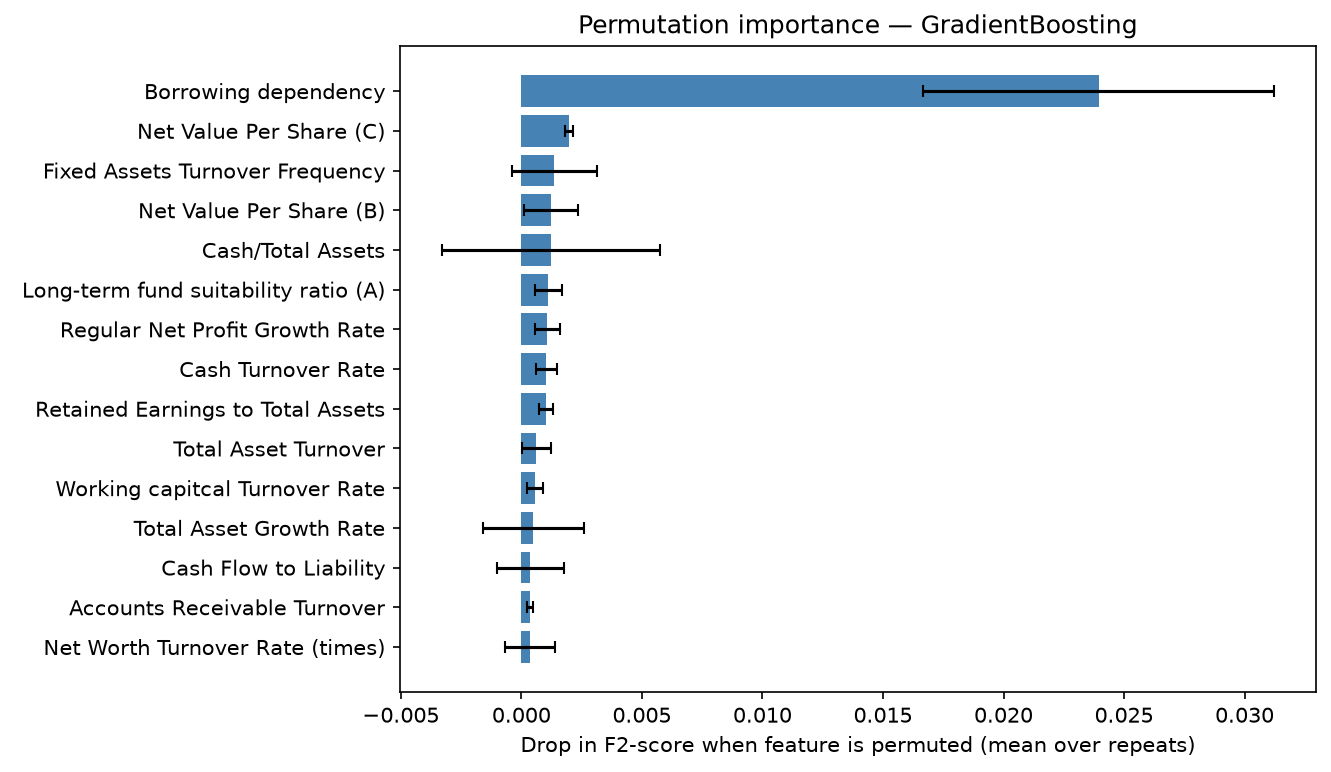
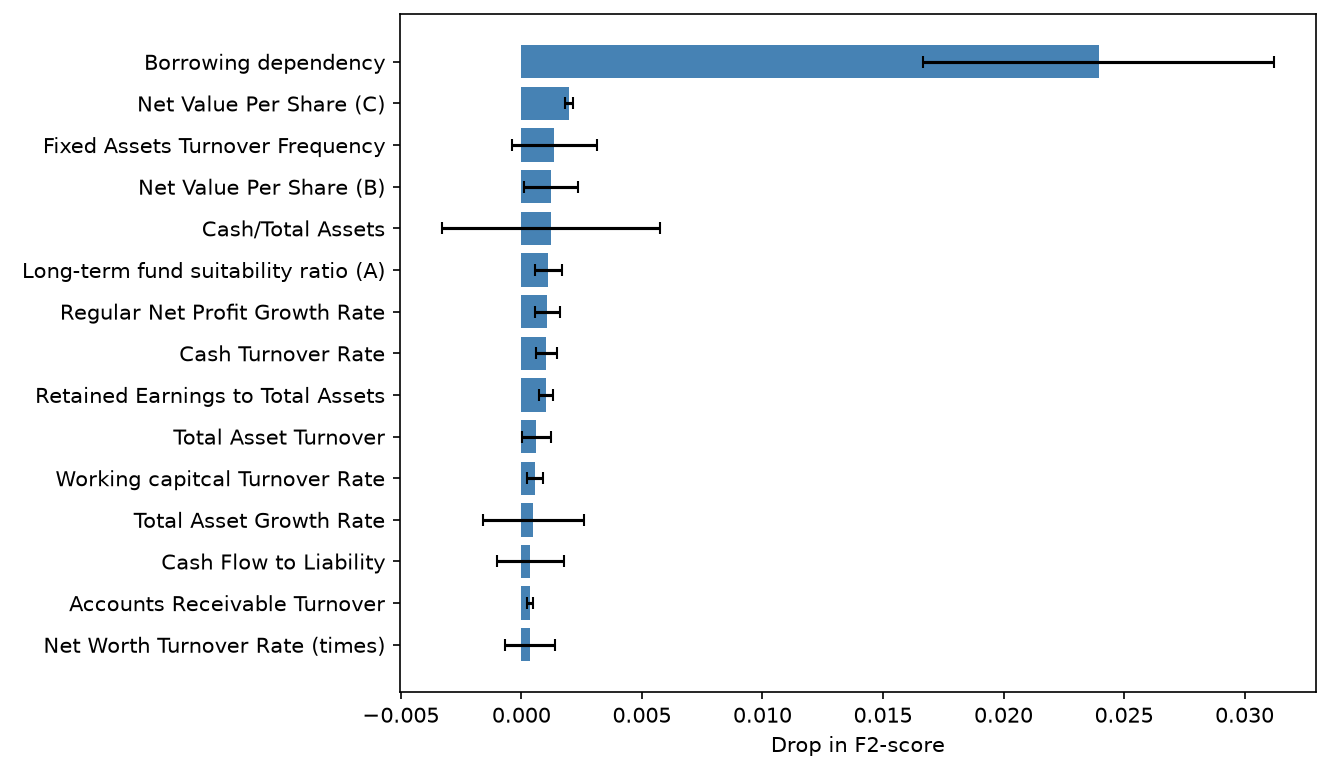
Update conclusion and appendix sections for clarity; rename section and adjust figure/table numbering for consistency.

diff --git a/chapters/99_Appendix.tex b/chapters/99_Appendix.tex
@@ -40,7 +40,7 @@ Section~\ref{sec:res-performance}.
   \floatfoot{Source: own.}
 \end{table}
 
-\section{Native Importance Rankings}
+\section{Native Importance Results}
 \label{sec:app-native}
 
 Tables~\ref{tab:native-lr} to~\ref{tab:native-gb} list the top $15$ features by

diff --git a/chapters/08_Conclusion.tex b/chapters/08_Conclusion.tex
@@ -1,3 +1,4 @@
+\clearpage
 \chapter{Conclusion}
 \label{ch:conclusion}
 
